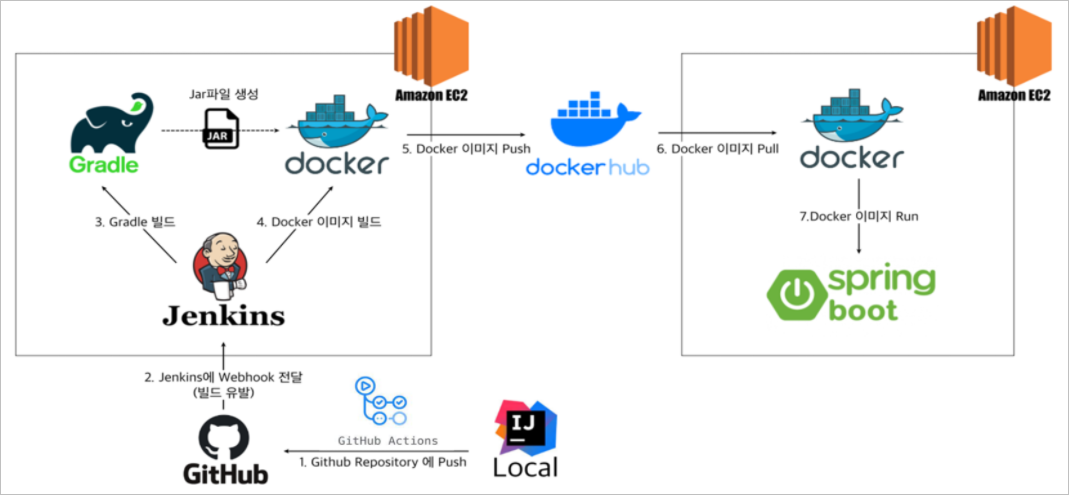
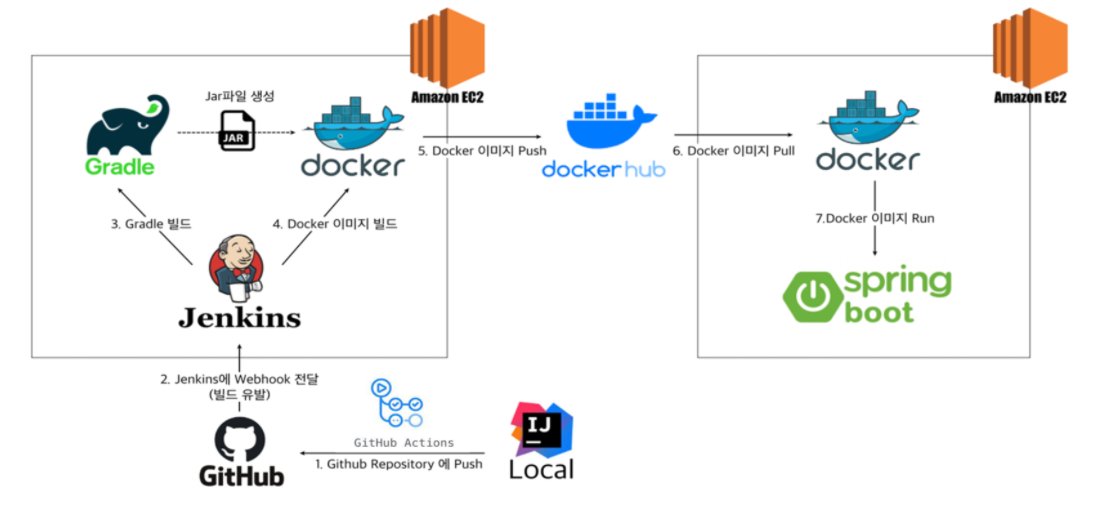
refactor : ReadMe.md 수정
수정 내용:
    - 이미지 테두리 제거
    - 롤업 배포 URL 링크

Changed region(s): [[0.0, 0.0, 1.0, 1.0], [0.1543, 0.3939, 0.3704, 0.6667], [0.9878, 0.9697, 1.0, 1.0]]

diff --git a/ReadMe.md b/ReadMe.md
@@ -9,7 +9,7 @@
 
 ---
 ### 소개
-- 롤업은 [League of Legends](https://www.leagueoflegends.com/ko-kr/) 유저 매칭 서비스 입니다.
+- [롤업](http://d2fh37v4sikqk8.cloudfront.net/) 은 [League of Legends](https://www.leagueoflegends.com/ko-kr/) 유저 매칭 서비스 입니다.
 - 사용자는 롤업을 통해 같이 게임할 듀오를 모집할 수 있습니다.
 - 사용자간 커뮤니케이션 및 실질적인 매칭은 채팅을 통해 이루어집니다.
 
